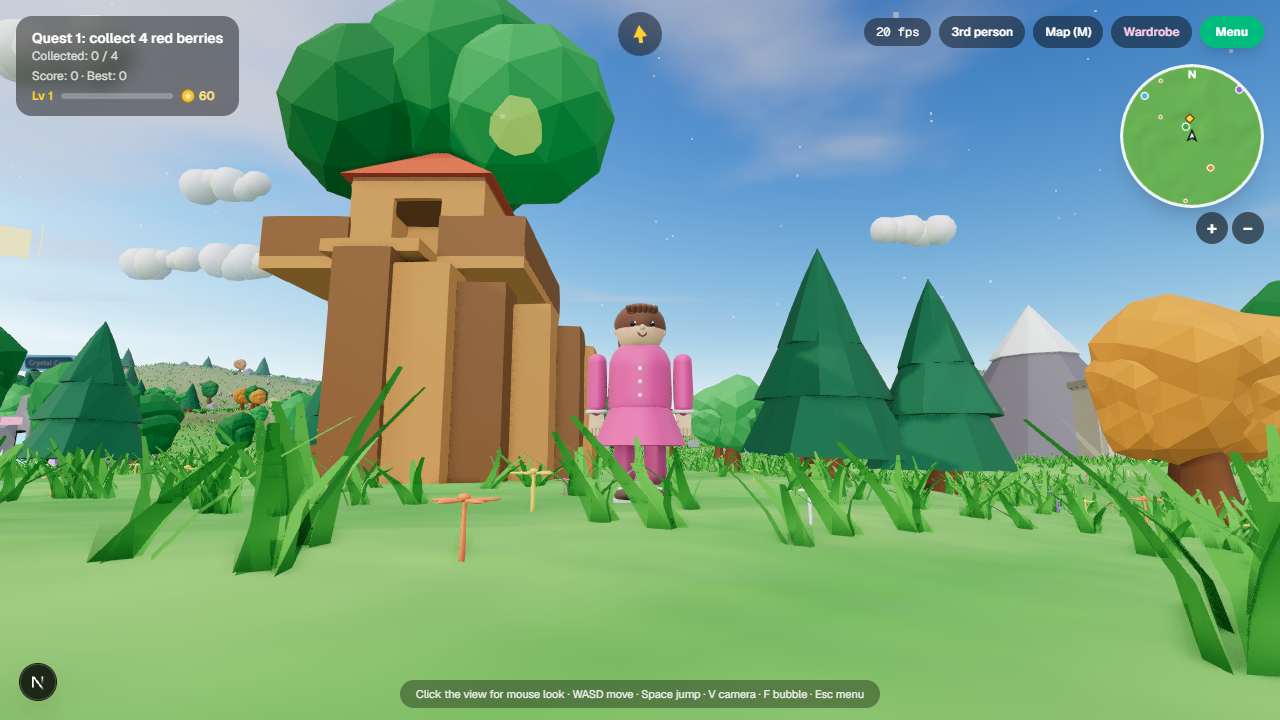
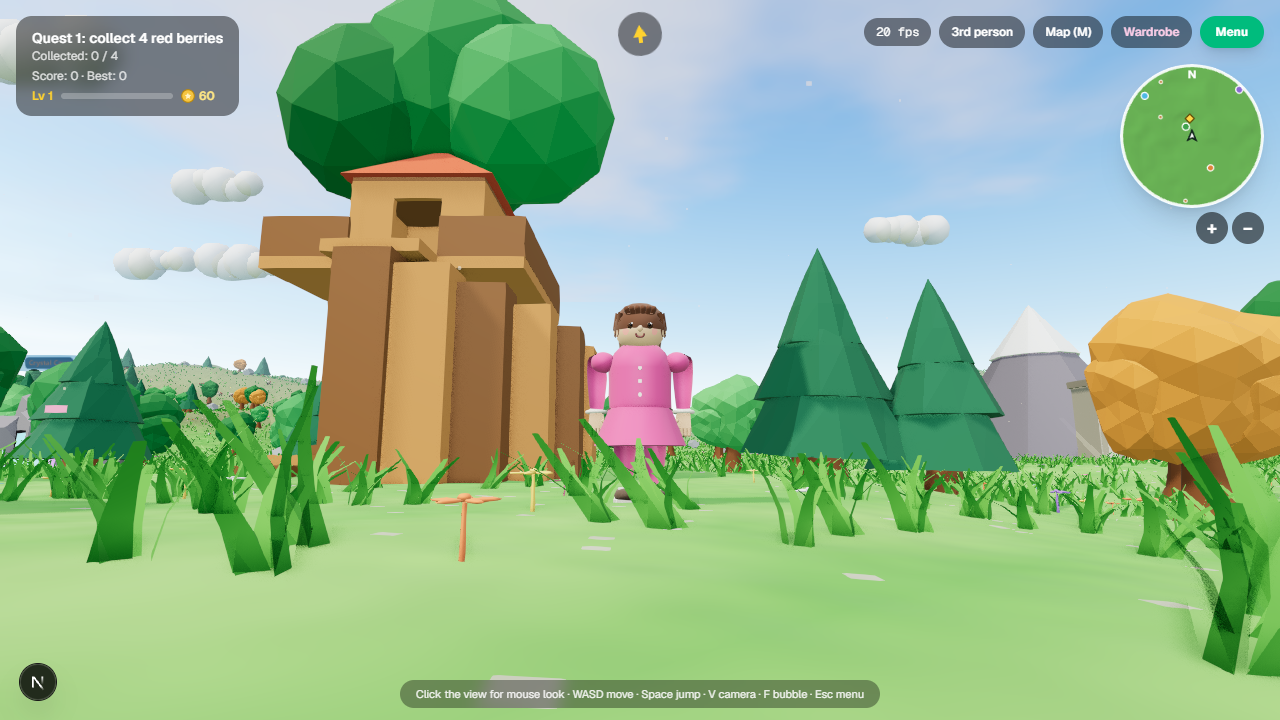
feat(graphics): Poly Haven photo textures for ground, rock slopes and bark; round pebbles instead of square specks
- menu: redraw the world twice a second while a menu is open so the
  wardrobe preview gets the GPU on weak devices
- qa: wardrobe tab click no longer waits for a navigation that never comes
- textures are CC0 from polyhaven.com (1k diffuse only, ~3.5 MB)

diff --git a/components/Game.tsx b/components/Game.tsx
@@ -782,7 +782,22 @@ export default function Game() {
     const pineMat = new THREE.MeshStandardMaterial({ color: 0x2a6e4f, flatShading: true });
     const snowCapMat = new THREE.MeshStandardMaterial({ color: 0xf2f7fb, flatShading: true });
     const cactusMat = new THREE.MeshStandardMaterial({ color: 0x3f9e58, roughness: 0.7 });
-    const trunkMat = new THREE.MeshStandardMaterial({ color: 0x7a4d2b, roughness: 0.95 });
+    // Photo-scanned CC0 textures from Poly Haven (public/textures). They load
+    // in the background; until then the procedural colours below are used.
+    const texLoader = new THREE.TextureLoader();
+    const photoTex = (name: string) => {
+      const t = texLoader.load(`/textures/${name}_diff.jpg`);
+      t.wrapS = t.wrapT = THREE.RepeatWrapping;
+      t.colorSpace = THREE.SRGBColorSpace;
+      t.anisotropy = Math.min(8, renderer.capabilities.getMaxAnisotropy());
+      return t;
+    };
+    const tGrass = photoTex("aerial_grass_rock");
+    const tSoil = photoTex("forest_ground_04");
+    const tRock = photoTex("rock_face");
+    const tBark = photoTex("bark_willow_02");
+    tBark.repeat.set(1, 2);
+    const trunkMat = new THREE.MeshStandardMaterial({ color: 0xb08a6a, map: tBark, roughness: 0.95 });
     const flowerMats = [0xffffff, 0xffd447, 0xff8fb3, 0xb28fff, 0xff6b4a].map((c) => new THREE.MeshStandardMaterial({ color: c, emissive: c, emissiveIntensity: 0.12 }));
     const stemMat = new THREE.MeshStandardMaterial({ color: 0x3f8f3a });
     const rockMat = new THREE.MeshStandardMaterial({ color: 0x9aa0a6, flatShading: true, roughness: 0.95 });
@@ -792,6 +807,9 @@ export default function Game() {
     // colour (soil patches, grass tufts), steep slopes turn to rock, and a
     // micro-normal perturbation gives the ground a lit, grainy relief
     groundMat.onBeforeCompile = (sh) => {
+      sh.uniforms.tGrass = { value: tGrass };
+      sh.uniforms.tSoil = { value: tSoil };
+      sh.uniforms.tRock = { value: tRock };
       sh.vertexShader = sh.vertexShader
         .replace("#include <common>", "#include <common>\nvarying vec3 vWPos;\nvarying vec3 vWNorm;")
         .replace(
@@ -804,6 +822,10 @@ export default function Game() {
           `#include <common>
 varying vec3 vWPos;
 varying vec3 vWNorm;
+uniform sampler2D tGrass;
+uniform sampler2D tSoil;
+uniform sampler2D tRock;
+float gLum(vec3 c){ return dot(c, vec3(0.299, 0.587, 0.114)); }
 float gHash(vec2 p){ return fract(sin(dot(p, vec2(127.1, 311.7))) * 43758.5453); }
 float gNoise(vec2 p){ vec2 i = floor(p); vec2 f = fract(p); f = f*f*(3.0-2.0*f);
   return mix(mix(gHash(i), gHash(i+vec2(1.,0.)), f.x), mix(gHash(i+vec2(0.,1.)), gHash(i+vec2(1.,1.)), f.x), f.y); }`
@@ -817,8 +839,35 @@ float gNoise(vec2 p){ vec2 i = floor(p); vec2 f = fract(p); f = f*f*(3.0-2.0*f);
   float n3 = gNoise(vWPos.xz * 3.1);
   diffuseColor.rgb *= 0.82 + n1 * 0.18 + n2 * 0.12 + n3 * 0.08;
   float slope = 1.0 - clamp(vWNorm.y, 0.0, 1.0);
-  vec3 rock = vec3(0.47, 0.45, 0.42) * (0.8 + n2 * 0.35);
+  // rock: warm/cool strata that follow height (wobbled so the bands are not
+  // ruler-straight), plus dark ridged cracks
+  float band = vWPos.y * 1.3 + gNoise(vWPos.xz * 0.35) * 2.5;
+  float strata = 0.5 + 0.5 * sin(band);
+  vec3 rock = mix(vec3(0.42, 0.40, 0.38), vec3(0.56, 0.52, 0.46), strata) * (0.8 + n2 * 0.3);
+  float crack = 1.0 - abs(gNoise(vWPos.xz * 1.7 + vWPos.y * 0.9) * 2.0 - 1.0);
+  rock *= 1.0 - smoothstep(0.9, 0.99, crack) * 0.45;
   diffuseColor.rgb = mix(diffuseColor.rgb, rock, smoothstep(0.28, 0.5, slope));
+  // scattered pebbles and bare-soil specks on flat ground
+  // (round, soft-edged dots inside each cell, never full square cells)
+  vec2 pc = vWPos.xz * 6.0;
+  float peb = gHash(floor(pc));
+  float pd = length(fract(pc) - 0.5);
+  float flat_ = 1.0 - smoothstep(0.15, 0.3, slope);
+  float pebMask = step(0.985, peb) * (1.0 - smoothstep(0.18, 0.3, pd));
+  diffuseColor.rgb = mix(diffuseColor.rgb, vec3(0.55, 0.5, 0.44) * (0.85 + n3 * 0.3), pebMask * flat_ * 0.6);
+  // photo detail: grass and forest-floor luminance modulate the biome tint
+  // (so snow and sand keep their colour); slopes get tri-planar rock photo
+  vec2 uv = vWPos.xz * 0.25;
+  float gd = gLum(texture2D(tGrass, uv).rgb) / 0.32;
+  float sd = gLum(texture2D(tSoil, uv * 0.8 + 0.37).rgb) / 0.30;
+  float detail = mix(gd, sd, smoothstep(0.35, 0.75, n1));
+  diffuseColor.rgb *= mix(1.0, clamp(detail, 0.45, 1.6), 0.65 * flat_);
+  vec3 bw = pow(abs(vWNorm), vec3(4.0));
+  bw /= (bw.x + bw.y + bw.z);
+  vec3 rp = texture2D(tRock, vWPos.zy * 0.12).rgb * bw.x
+          + texture2D(tRock, vWPos.xz * 0.12).rgb * bw.y
+          + texture2D(tRock, vWPos.xy * 0.12).rgb * bw.z;
+  diffuseColor.rgb = mix(diffuseColor.rgb, rp * 1.1, smoothstep(0.3, 0.55, slope) * 0.85);
 }`
         )
         .replace(
@@ -1748,6 +1797,7 @@ float gNoise(vec2 p){ vec2 i = floor(p); vec2 f = fract(p); f = f*f*(3.0-2.0*f);
     // ---------- main loop state ----------
     let camYaw = 0;
     let camPitch = 0.32;
+    let menuFrame = 0;
     let view: "tpp" | "fpp" = controlsRef.current?.view ?? "tpp";
     let walk = 0;
     let vy = 0;
@@ -2661,8 +2711,13 @@ float gNoise(vec2 p){ vec2 i = floor(p); vec2 f = fract(p); f = f*f*(3.0-2.0*f);
       }
 
       updateSparks(dt);
-      if (composer) composer.render();
-      else renderer.render(activeScene, camera);
+      // Behind an open menu the world is only a backdrop: redraw it about
+      // twice a second so weak GPUs can spend their time on the wardrobe preview.
+      menuFrame = menuOpenRef.current && !captureRef.current ? (menuFrame + 1) % 30 : 0;
+      if (menuFrame <= 1) {
+        if (composer) composer.render();
+        else renderer.render(activeScene, camera);
+      }
 
       if (captureRef.current) {
         captureRef.current = false;
